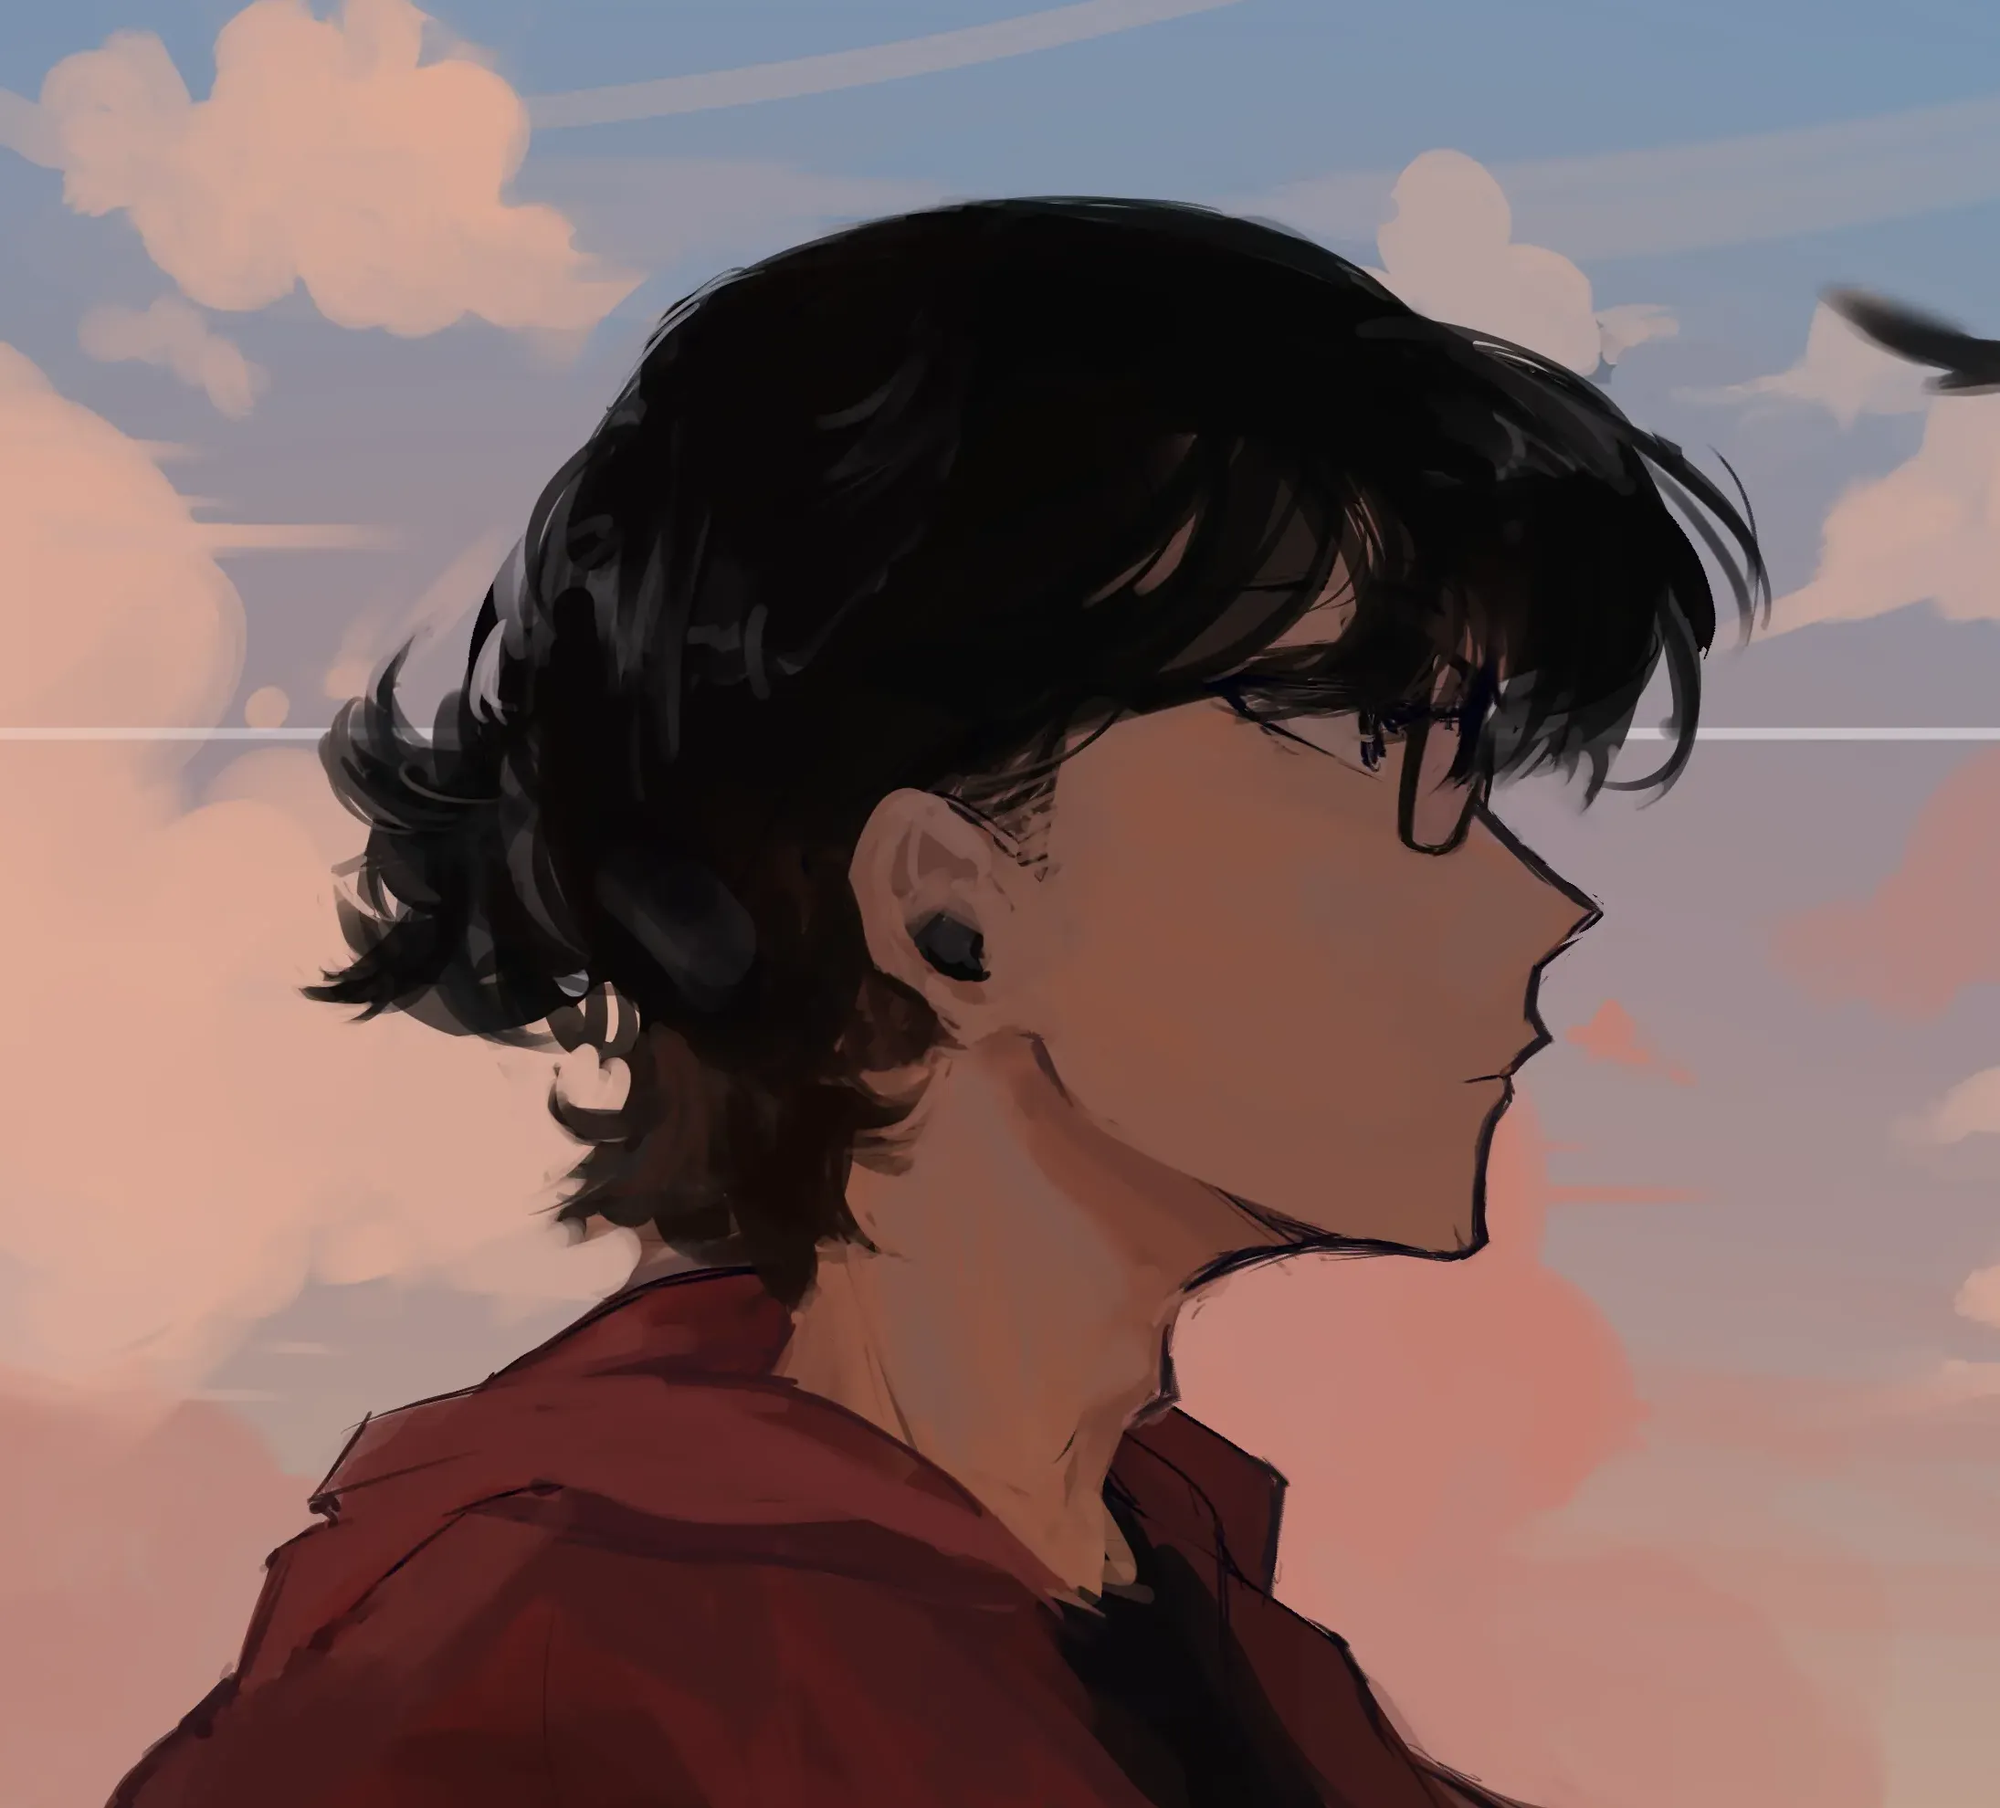
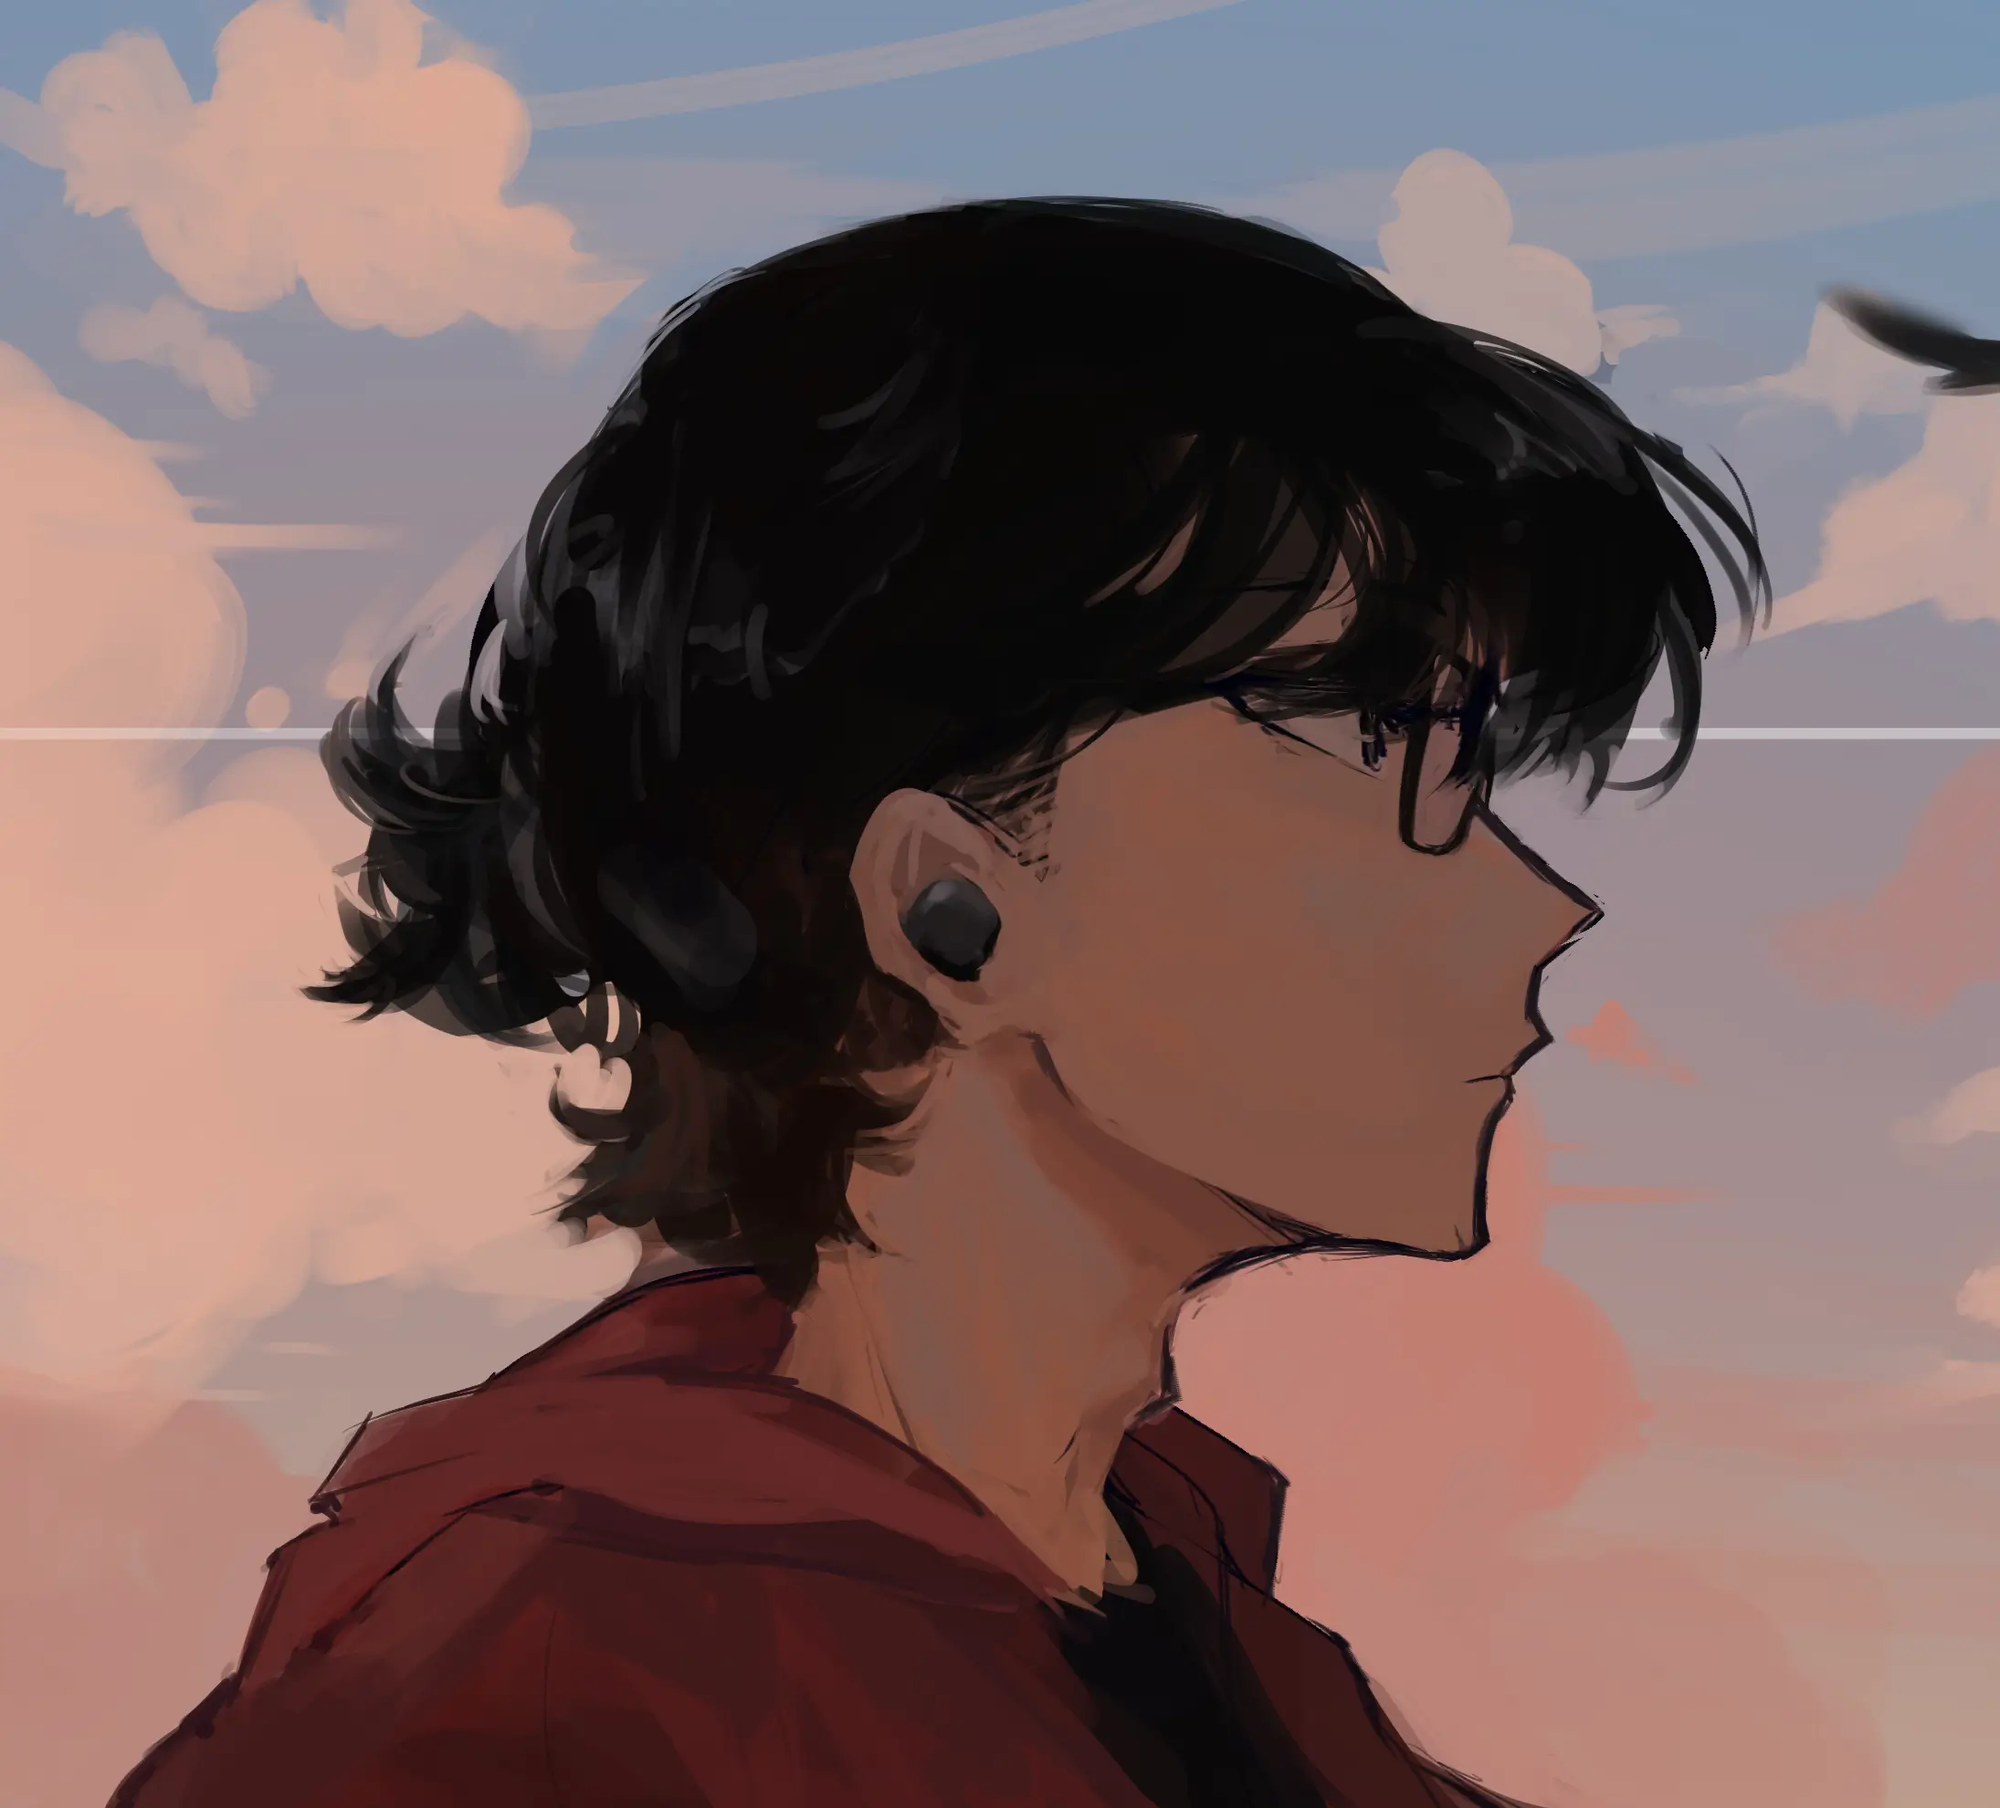
chore(HeroImage): fix earbud

Changed region(s): [[0.4347, 0.4621, 0.4968, 0.5237]]

diff --git a/README.md b/README.md
@@ -1,6 +1,6 @@
 # 🎨 Personal Portfolio
 
-![mockup](https://github.com/xafn/afn.im/assets/47723802/210e831e-0cc3-40eb-983f-a154a64c7129)
+![mockup](https://github.com/xafn/afn.im/assets/47723802/e6557c66-b781-4ba4-8784-03615a19b84c)
 
 A simple site to showcase the art I've made over the years. Check it out at [afn.im](https://afn.im/).
 
